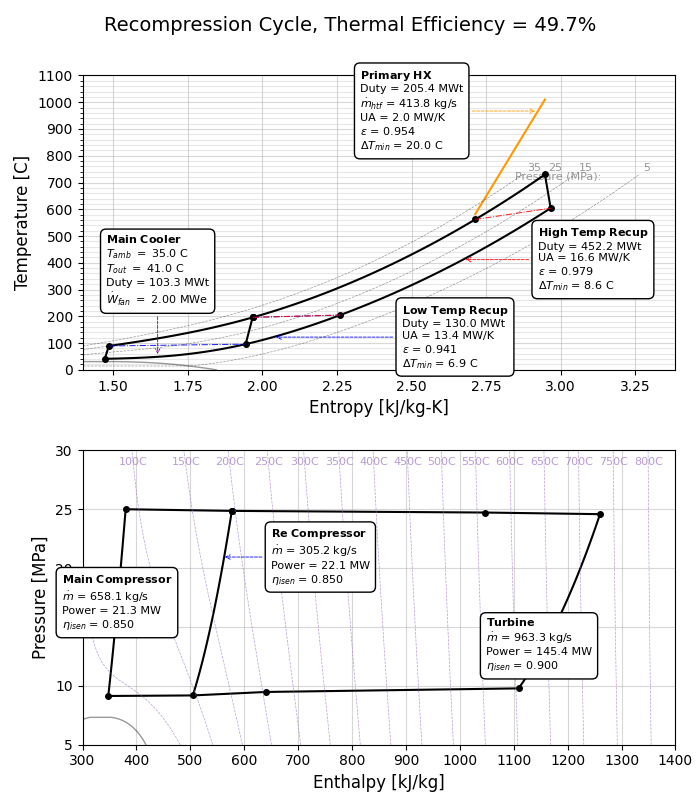
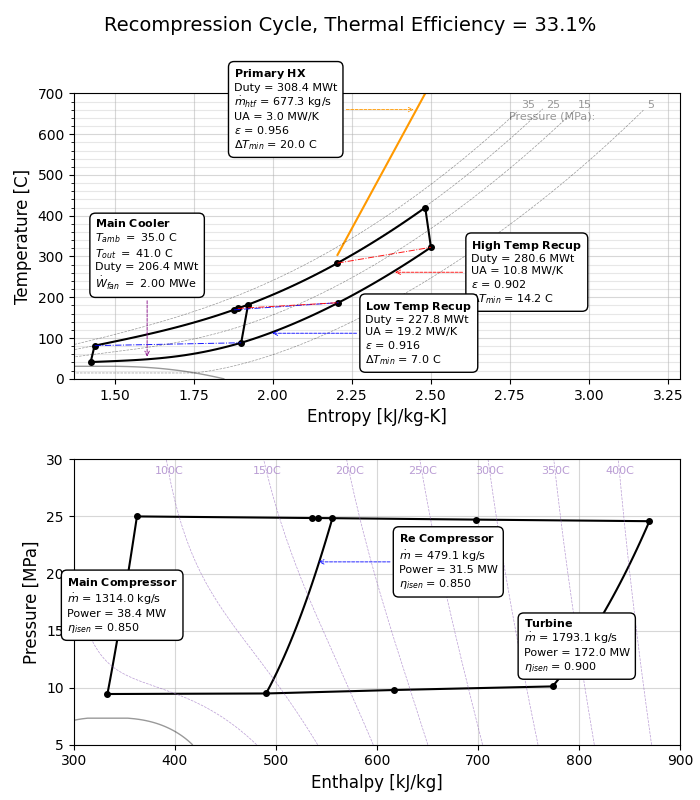
FPyR optimizer introduced with dynamic calcs for H and W ratios using assumed field extents.

diff --git a/FPR Modeling/FPyR.py b/FPR Modeling/FPyR.py
@@ -1,0 +1,276 @@
+
+from dataclasses import dataclass, astuple, asdict, fields
+import matplotlib.pyplot as plt
+import scipy.optimize as opt
+from ctypes import *
+import pandas as pd
+import numpy as np
+import csv 
+import sys
+import os 
+
+class designSolution(Structure):
+    _fields_ = [
+        ("eta", c_double),
+        ("m_dot_tot", c_double),
+        ("T_particle_hot_rec", c_double),
+        ("Q_inc", c_double),
+        ("Q_refl", c_double),
+        ("Q_rad", c_double),
+        ("Q_adv", c_double),
+        ("Q_cond", c_double),
+        ("Q_transport", c_double),
+        ("Q_thermal", c_double),
+        ("tauc_avg", c_double),
+        ("rhoc_avg", c_double),
+        ("qnetc_sol_avg", c_double),
+        ("qnetw_sol_avg", c_double),
+    ]
+
+    def __repr__(self):
+        
+        printme = ''
+        for valname, valtype in self._fields_:
+            val = getattr(self, valname)
+            printme += f'{valname:.<22}{float(val):.>20.3f} {self._units(valname)}\n'
+
+        return printme
+
+    def to_dict(self): 
+
+        asdict = {}
+        for valname, valtype in self._fields_:
+            val = getattr(self, valname)
+            asdict[valname] = val 
+
+        return asdict
+
+    def _units(self, key): 
+        units = {
+            "eta": "[-]",
+            "m_dot_tot": "[kg/s]",
+            "T_particle_hot_rec": "[K]",
+            "Q_inc": "[MW]",
+            "Q_refl": "[MW]",
+            "Q_rad": "[MW]",
+            "Q_adv": "[MW]",
+            "Q_cond": "[MW]",
+            "Q_transport": "[MW]",
+            "Q_thermal": "[MW]",
+            "tauc_avg": "[-]",
+            "rhoc_avg": "[-]",
+            "qnetc_sol_avg": "[MW/m²]",
+            "qnetw_sol_avg": "[MW/m²]",
+        }
+
+        return units.get(key, "[?]")
+
+@dataclass
+class designParams(): 
+    T_des_i: float=500.     # [C]  Receiver Inlet Temperature
+    T_des_o: float=1000     # [C]  Receiver Outlet Temperature
+    H_rec:   float=5.00     # [m]  Aperture Height
+    W_rec:   float=10.0     # [m]  Aperture Width
+    H_ratio: float=0.50     # [-]  Aperture Height Ratio
+    W_ratio: float=0.50     # [-]  Aperture Width Ratio
+    D_ratio: float=0.50     # [-]  Aperture Depth Ratio
+    q_des_o: float=200.     # [MW] Design Receiver Output    
+
+class FPyR(): 
+
+    def __init__(self, path: str=os.path.join(os.getcwd(), 'FPR Modeling', 'results'), file: str='solutions.csv', newrun: bool=True): 
+        
+        self._path = "C:/source/.repositories/sam_dev/build/ssc/ssc/Debug"
+        if sys.platform == 'win32' or sys.platform == 'cygwin':
+            self.pdll = CDLL(os.path.join(self._path, "sscd.dll"))
+        elif sys.platform == 'darwin':
+            self.pdll = CDLL(os.path.join(self._path, "sscd.dylib")) 
+        elif sys.platform.startswith('linux'):
+            self.pdll = CDLL(os.path.join(self._path, "sscd.so")) 
+        else: print( 'Platform not supported ', sys.platform)
+
+        self._pdll_types()
+        self._defaults() 
+
+        self.directory = path
+        self.filename  = file 
+        if newrun: # the solutions.csv file is erased, if true. 
+            with open(os.path.join(self.directory, self.filename), mode='w', newline='') as file: 
+                pass # create a fresh solutions file for the new class
+        else: pass # otherwise, do nothing
+
+    def simulate(self, cores: int=1, despar: designParams=designParams(), guesses: list=[[10, 10, 0.5]]): 
+
+        def iterable(value):
+            # ensures a non-iterable value is treated as one
+
+            if not isinstance(value, (list, tuple, np.ndarray)): 
+                return [value]
+            else: return value
+
+        def combinations(despar, current_obj={}, depth=0, results=None):
+            # Generates a set of all combinations for the parametric study.
+            
+            if isinstance(despar, designParams): 
+                despar = asdict(despar)
+            if results is None:
+                results = []
+
+            keys = list(despar.keys())
+            if depth == len(despar):
+                results.append(designParams(*current_obj.values()))
+                return results
+            current_key = keys[depth]
+            for value in iterable(despar[current_key]):
+                next_obj = current_obj.copy()
+                next_obj[current_key] = value
+                combinations(despar, next_obj, depth + 1, results)
+            return results
+
+        def printProgressBar (iteration, total, prefix = 'Progress:', suffix = '', decimals = 1, length = 20, fill = '█', printEnd = "\r"):
+            """
+            Call in a loop to create terminal progress bar
+            @params:
+                iteration   - Required : (Int) current iteration 
+                total       - Required : (Int) total iterations 
+                prefix      - Optional : (Str) prefix string 
+                suffix      - Optional : (Str) suffix string 
+                decimals    - Optional : (Int) decimals in percent complete 
+                length      - Optional : (Int) character length of bar 
+                fill        - Optional : (Str) bar fill character 
+                printEnd    - Optional : (Str) end character (e.g. "\r", "\r\n") 
+            """
+            percent = ("{0:."+str(decimals)+"f}").format(100*(iteration/float(total)))
+            filledLength = int(length * iteration // total)
+            bar = fill * filledLength + '-' * (length - filledLength)
+            print(f'\r{prefix} |{bar}| {percent}% {suffix}', end = printEnd)
+            # Print New Line on Complete
+            if iteration == total: 
+                print()
+
+        allstudies = combinations(despar)
+        for i, study in enumerate(allstudies): 
+            for j, guess in enumerate(guesses): 
+                printProgressBar(i * len(guesses) + j, len(allstudies) * len(guesses) - 1)
+
+                results = self._optimize(study, guess)
+                self._savesolution(study, results)
+
+    def _optimize(self, study, guess): 
+
+        def objective(x, study=study): 
+            study.H_rec, study.W_rec, study.D_ratio = x
+
+            # calculating ratios with assumed extent angles a and b
+            d = study.D_ratio * study.H_rec
+            a = np.deg2rad(35)
+            b = np.deg2rad(80)
+            h = d * np.tan(a)
+            w = d * np.tan(b)
+            study.H_ratio = (h + study.H_rec / 2) / study.H_rec
+            study.W_ratio = 2 * w / study.W_rec 
+
+            result = self.pdll.ssc_testing(*astuple(study))
+            return 1 / result.eta 
+
+        H_rec, W_rec, D_ratio = guess
+        variables = [H_rec, W_rec, D_ratio]
+        bounds = [
+            (5, 30),    # [m] Receiver Height
+            (5, 30),    # [m] Receiver Width
+            (0.1, 1.5), # [-] Depth Ratio
+        ]
+
+        results = opt.minimize(
+            objective,          # Objective function
+            variables,          # Decision variables
+            method='COBYLA',    # Algorithm
+            bounds=bounds,      # DV Upper / Lower Bounds
+            options={ 
+                'tol': 0.1, 
+                'maxiter': 100, 
+                'rhobeg': 0.1
+            }
+        )
+
+        study.H_rec = results.x[0]
+        study.W_rec = results.x[1]
+        optimal_instance = self.pdll.ssc_testing(*astuple(study))
+        return optimal_instance
+
+    def display(self, x: str='T_des_i', y: str='eta'): 
+        df = pd.read_csv(os.path.join(self.directory, self.filename))
+
+        plt.scatter(df[x], df[y])
+        plt.show()
+
+    def _defaults(self) -> bool: 
+
+        self.results = None
+        return True
+
+    def _savesolution(self, study, results) -> bool: 
+        '''
+        Saves the current solution to the defined solutions file if
+        headers are present. Otherwise, it writes the header row and 
+        then saves the solution
+        '''
+        # checking if headers are already defined in the file
+        with open(os.path.join(self.directory, self.filename), mode='r', newline='') as file: 
+            reader = csv.reader(file)
+            header = next(reader, None) is not None
+        # writing the solution and headers, if necessary
+        with open(os.path.join(self.directory, self.filename), mode='a', newline='') as file: 
+            result = asdict(study) | results.to_dict()
+            fields = list(result.keys())
+            writer = csv.DictWriter(file, fieldnames=fields)
+            if not header: 
+                writer.writeheader()
+            writer.writerow(result)
+        
+        return True
+
+    def _pdll_types(self) -> bool: 
+
+        self.pdll.ssc_testing.argtypes = [
+            c_double,   # [C]  Receiver Inlet Temperature
+            c_double,   # [C]  Receiver Outlet Temperature
+            c_double,   # [m]  Aperture Height
+            c_double,   # [m]  Aperture Width
+            c_double,   # [-]  Aperture Height Ratio
+            c_double,   # [-]  Aperture Width Ratio
+            c_double,   # [-]  Aperture Depth Ratio
+            c_double    # [MW] Design Receiver Output
+        ]
+
+        self.pdll.ssc_testing.restype = designSolution
+        return True
+
+if __name__=='__main__': 
+
+    model = FPyR(newrun=False, file='solutions.csv') 
+    # study = designParams(
+    #     T_des_i = np.arange(500, 801, 20),
+    #     T_des_o = 900,
+    #     H_rec   = 15,
+    #     W_rec   = 15,
+    #     H_ratio = 0.2,
+    #     W_ratio = 0.5,
+    #     D_ratio = 0.1,
+    #     q_des_o = 200,
+    # )
+
+    # guesses = [
+    #     (H_rec, W_rec, 0.2) for i, (H_rec, W_rec) in enumerate(
+    #         [
+    #             (H, W) 
+    #             for H in np.arange(5, 30, 6) 
+    #             for W in np.arange(5, 30, 6) 
+    #         ]
+    #     )
+    # ]
+
+    # model.simulate(cores=1, despar=study, guesses=guesses)
+    model.display(x='W_rec', y='eta')
+
+

diff --git a/FPR Modeling/optics.py b/FPR Modeling/optics.py
@@ -47,6 +47,19 @@ def get_reflectance(n2, k2, n1=1.0, th=0):
 
     return (rhTE + rhTM) / 2
 
+def get_semitransparent(rho, la, th): 
+
+    th = np.deg2rad(th)
+    di = 0.1
+    ki = 0.2
+    Ki = 4 * np.pi * ki / (la * 1e-6)
+    tau = np.exp(-Ki * di / np.cos(th))
+
+    Tset = (tau * (1 - rho)**2) / (1 - rho**2 * tau**2)
+    Rset = rho * (1 + (((1 - rho)**2 * tau**2) / (1 - rho**2 * tau**2)))
+    Aset = 1 - Tset - Rset
+    return Tset, Rset, Aset
+
 def ep_la(la, df, th):
     '''
     la1 [um]    band wavelength start
@@ -56,7 +69,11 @@ def ep_la(la, df, th):
     n = np.interp(la, df['la'], df['n'])
     k = np.interp(la, df['la'], df['k'])
     rh_la = get_reflectance(n, k, th=th)
-    return 1 - rh_la
+    if k==0: 
+        Tset, Rset, Aset = get_semitransparent(rh_la, la, th)
+        return Aset
+    else: 
+        return 1 - rh_la
 
 def get_emittance(la1=0, la2=np.inf, T=500, material='Nickel', angle=0): 
     '''
@@ -65,7 +82,7 @@ def get_emittance(la1=0, la2=np.inf, T=500, material='Nickel', angle=0):
     la2 [um]    band wavelength close
     '''
 
-    if material not in ['Nickel', 'Chromium', 'Tungsten', 'Iron', 'Cobalt']: 
+    if material not in ['Nickel', 'Chromium', 'Tungsten', 'Iron', 'Cobalt', 'Silica', 'Alumina']: 
         raise ValueError(f'Material ({material}) not recognized.')
 
     file = f'{material}.csv'
@@ -92,24 +109,30 @@ def get_emittance(la1=0, la2=np.inf, T=500, material='Nickel', angle=0):
 if __name__=='__main__': 
 
     Tsun = 1000     # [K]   for absorptance, use origin temperature
-    frNi = 0.57     # [-]   Hanes 230 alloy composition: Nickel fraction
-    frCr = 0.22     # [-]   Hanes 230 alloy composition: Chromium fraction
-    frW_ = 0.14     # [-]   Hanes 230 alloy composition: Tungsten fraction
-    frFe = 0.02     # [-]   Hanes 230 alloy composition: Iron fraction
-    frCo = 0.05     # [-]   Hanes 230 alloy composition: Cobalt fraction
+    la1 = 0.
+    la2 = 20
 
-    epNi = get_emittance(la1=0, la2=20, T=Tsun, material='Nickel')
-    epCr = get_emittance(la1=0, la2=20, T=Tsun, material='Chromium')
-    epW_ = get_emittance(la1=0, la2=20, T=Tsun, material='Tungsten')
-    epFe = get_emittance(la1=0, la2=20, T=Tsun, material='Iron')
-    epCo = get_emittance(la1=0, la2=20, T=Tsun, material='Cobalt')
-    total = epNi * frNi + epCr * frCr + epW_ * frW_ + epFe * frFe + epCo * frCo
+    # frNi = 0.57     # [-]   Hanes 230 alloy composition: Nickel fraction
+    # frCr = 0.22     # [-]   Hanes 230 alloy composition: Chromium fraction
+    # frW_ = 0.14     # [-]   Hanes 230 alloy composition: Tungsten fraction
+    # frFe = 0.02     # [-]   Hanes 230 alloy composition: Iron fraction
+    # frCo = 0.05     # [-]   Hanes 230 alloy composition: Cobalt fraction
 
-    print(f'Nickel   = {epNi*100:5.2f}% (wt = {frNi*100:2.0f}%)')
-    print(f'Chromium = {epCr*100:5.2f}% (wt = {frCr*100:2.0f}%)')
-    print(f'Tungsten = {epW_*100:5.2f}% (wt = {frW_*100:2.0f}%)')
-    print(f'Iron     = {epFe*100:5.2f}% (wt = {frFe*100:2.0f}%)')
-    print(f'Cobalt   = {epCo*100:5.2f}% (wt = {frCo*100:2.0f}%)')
-    print(f'Total Absorptivity = {100*total:.2f}%')
+    # epNi = get_emittance(la1=la1, la2=la2, T=Tsun, material='Nickel')
+    # epCr = get_emittance(la1=la1, la2=la2, T=Tsun, material='Chromium')
+    # epW_ = get_emittance(la1=la1, la2=la2, T=Tsun, material='Tungsten')
+    # epFe = get_emittance(la1=la1, la2=la2, T=Tsun, material='Iron')
+    # epCo = get_emittance(la1=la1, la2=la2, T=Tsun, material='Cobalt')
+    # total = epNi * frNi + epCr * frCr + epW_ * frW_ + epFe * frFe + epCo * frCo
+
+    # print(f'Nickel   = {epNi*100:5.2f}% (wt = {frNi*100:2.0f}%)')
+    # print(f'Chromium = {epCr*100:5.2f}% (wt = {frCr*100:2.0f}%)')
+    # print(f'Tungsten = {epW_*100:5.2f}% (wt = {frW_*100:2.0f}%)')
+    # print(f'Iron     = {epFe*100:5.2f}% (wt = {frFe*100:2.0f}%)')
+    # print(f'Cobalt   = {epCo*100:5.2f}% (wt = {frCo*100:2.0f}%)')
+    # print(f'Total Absorptivity = {100*total:.2f}%')
     
+    epSiO2 = get_emittance(la1=la1, la2=la2, T=Tsun, material='Alumina')
+    print(f'Alumina = {epSiO2*100:5.2f}%')
+
 

diff --git a/SSC CSP API/main.py b/SSC CSP API/main.py
@@ -470,7 +470,7 @@ if __name__=='__main__':
         'try_simple_cycle'     : 1,      # [-]
         'receiver_eta_mod'     : 1.0,    # [-]
         'heliostat_cost'       : 75,     # [$/m^2]
-        'T_htf_hot_des'        : 1010,   # [C] 
+        'T_htf_hot_des'        : 700,    # [C] 
         'opt_penalty'          : 1,      # [-] 
         'opt_logging'          : 0,      # [-] 
         'LTR_min_dT_des_in'    : 5,      # [C] 
@@ -485,8 +485,8 @@ if __name__=='__main__':
     system.update(prebuilt='maxeta')
     system.optimize(savefig=True)
 
-    system.update(prebuilt='minlcoe')
-    system.optimize(savefig=True)
+    # system.update(prebuilt='minlcoe')
+    # system.optimize(savefig=True)
 
     # system.update(prebuilt='minlcoe')
     # system.parametric(params={
